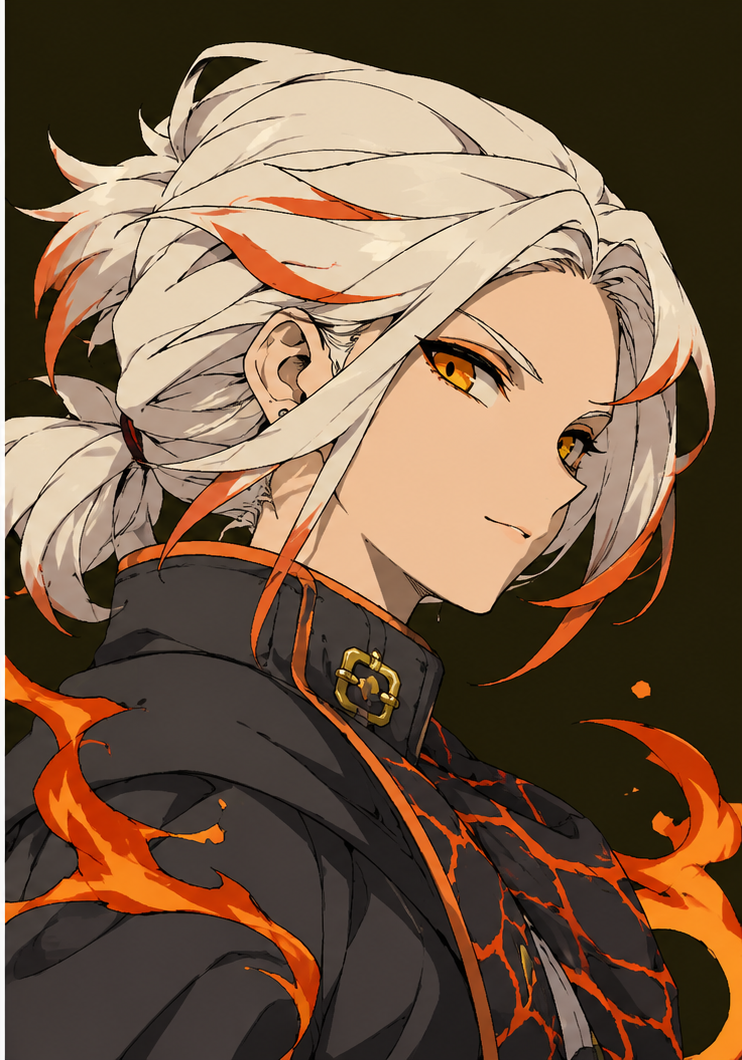
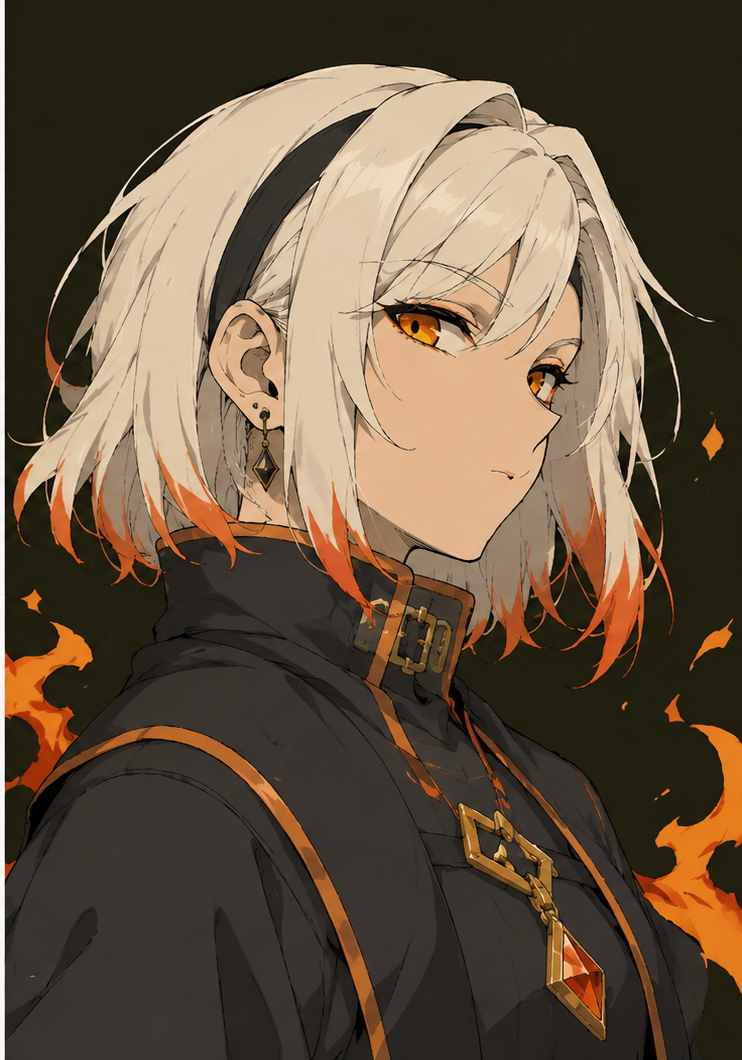
web: 대지 속성 주인공 일러스트 추가 + 불 일러 갱신본으로 재분할
- 사용자 제작 흙.png(남+여 합본)를 좌·우로 잘라 hero-earth-<male|female>.png 생성
- 수정된 불.png 기준으로 hero-fire-<male|female>.png 재생성
- portraits/README 를 현재 로직(개별파일→벡터 2단계)에 맞게 갱신

Claude-Session: https://claude.ai/code/session_011VGWzy3Fyii39XAGi6nmRD

diff --git a/web/public/images/portraits/README.md b/web/public/images/portraits/README.md
@@ -3,10 +3,13 @@
 게임은 다음 순서로 초상화를 찾는다:
 
 1. `hero-<속성>-<성별>.png` — 개별 파일 (예: hero-fire-male.png). 있으면 그대로 사용.
-2. `hero-<속성>.png` — 남/여가 좌·우로 합쳐진 1장. object-position 으로 반쪽을 잘라 씀.
-3. 없으면 코드로 그린 벡터 초상화(HeroSvg).
+2. 없으면 코드로 그린 벡터 초상화(HeroSvg).
 
 속성: fire / ice / earth · 성별: male(왼쪽) / female(오른쪽)
 
-현재: hero-fire.png, hero-ice.png (합본) 사용 중. earth 는 벡터.
-합본 프레이밍이 어긋나면 components/game/portrait.tsx 의 FRAME 값(objectPosition) 조정.
+현재: fire / ice / earth 3속성 모두 사용자 일러스트를 사용 중.
+원본은 `남(좌) + 여(우)` 합본 1장이며, scripts 의 split 로 좌·우 절반씩 잘라
+`hero-<속성>-<성별>.png` 4쌍을 생성한다.
+
+프레이밍이 어긋나면 `components/game/portrait.tsx` 의 `HeroPortrait` 안
+`objectPosition` 값(현재 `50% 14%`)을 조정.
